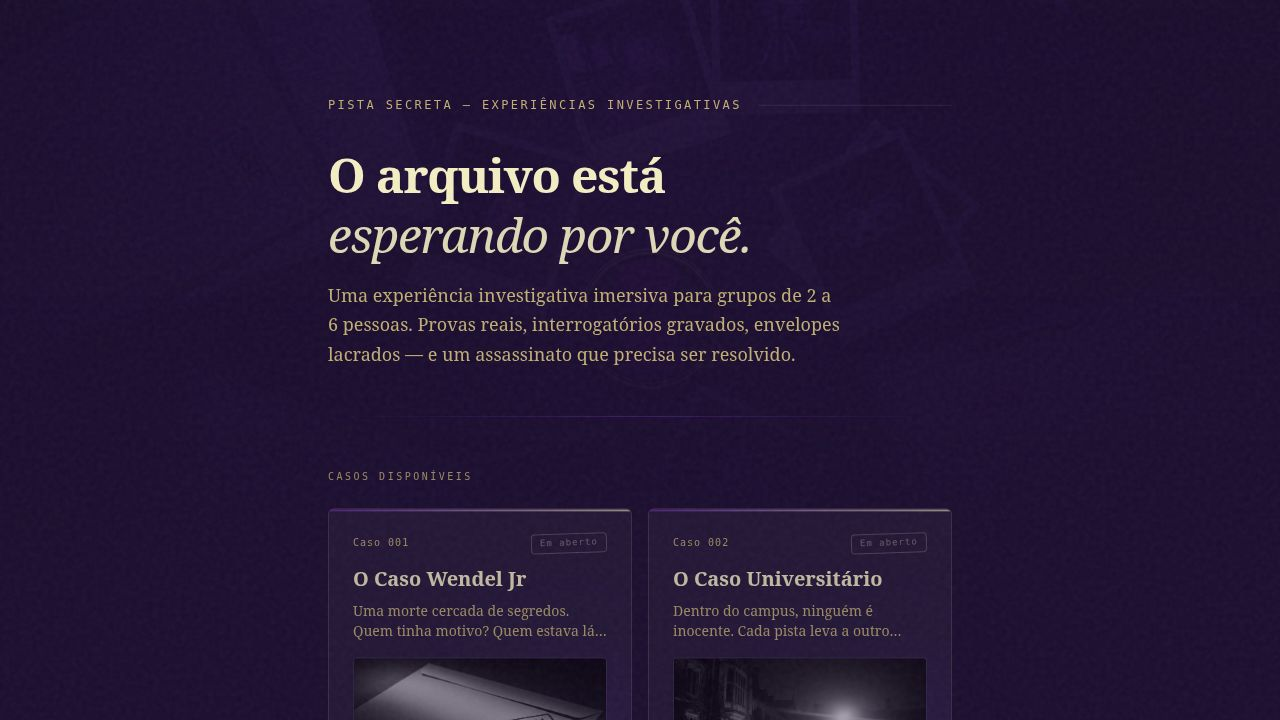
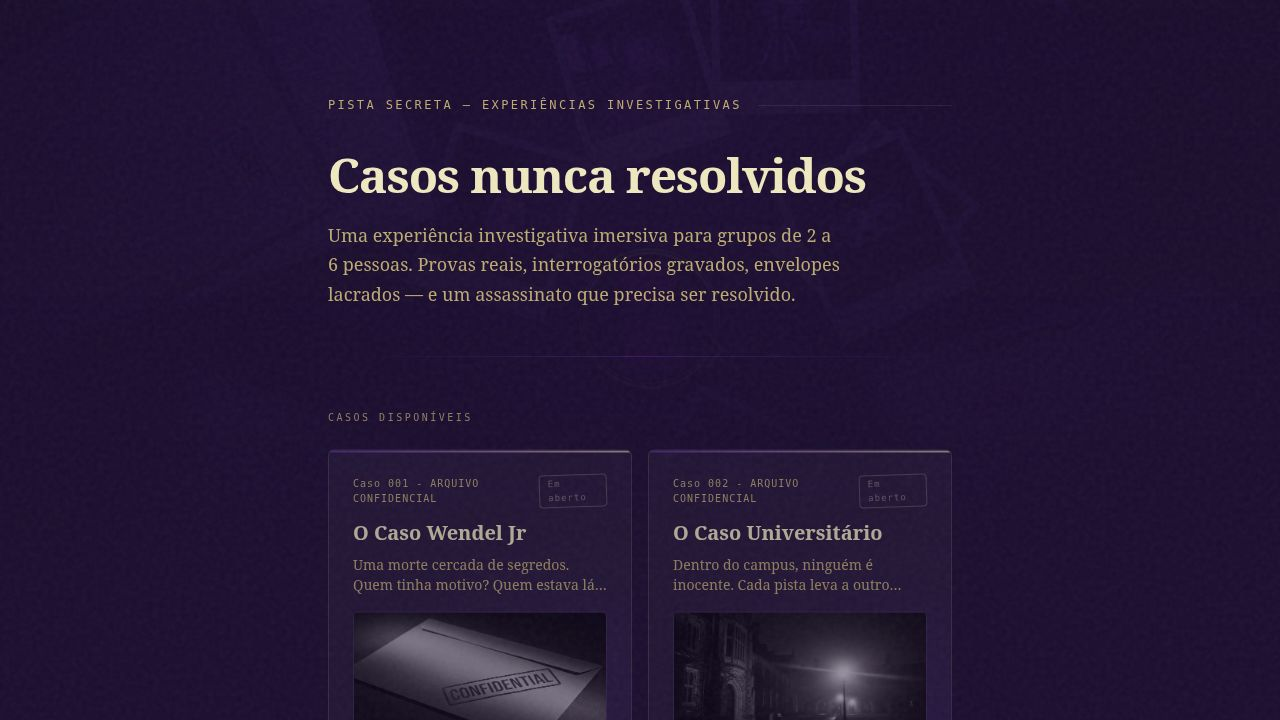
Update main title to "Unresolved cases"
Update the main heading text in the App.tsx component from "The file is waiting for you." to "Unresolved cases".

Replit-Commit-Author: Agent
Replit-Commit-Session-Id: 97173463-ae16-4522-b4d1-abf31a6a0fbf
Replit-Commit-Checkpoint-Type: full_checkpoint
Replit-Commit-Event-Id: 72d18d8a-a4d5-4bd2-ac2d-683678fa08b0
Replit-Commit-Screenshot-Url: https://storage.googleapis.com/screenshot-production-us-central1/b7428c7d-a3bc-4d27-812a-17d1c882ddfd/97173463-ae16-4522-b4d1-abf31a6a0fbf/NcE9lF9
Replit-Helium-Checkpoint-Created: true

diff --git a/artifacts/pista-secreta/src/App.tsx b/artifacts/pista-secreta/src/App.tsx
@@ -47,8 +47,7 @@ function LandingPage() {
           </div>
 
           <h1 className="font-serif text-4xl md:text-5xl font-bold leading-tight mb-4 tracking-tight">
-            O arquivo está <br />
-            <em className="italic font-normal text-primary/90">esperando por você.</em>
+            Casos nunca resolvidos
           </h1>
           <p className="text-lg text-muted leading-relaxed max-w-lg">
             Uma experiência investigativa imersiva para grupos de 2 a 6 pessoas. Provas reais, interrogatórios gravados, envelopes lacrados — e um assassinato que precisa ser resolvido.
